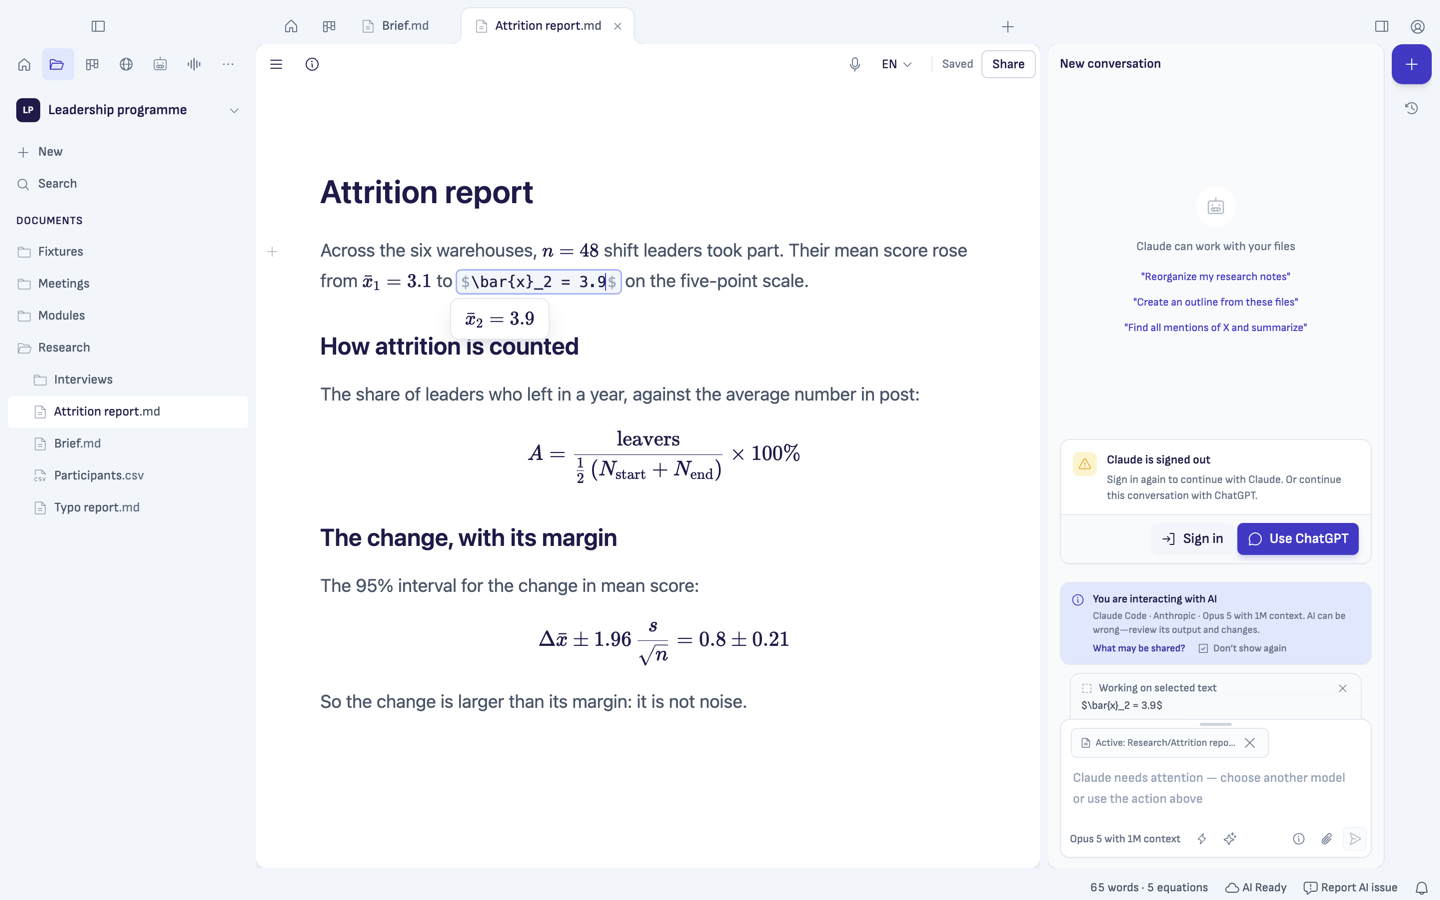
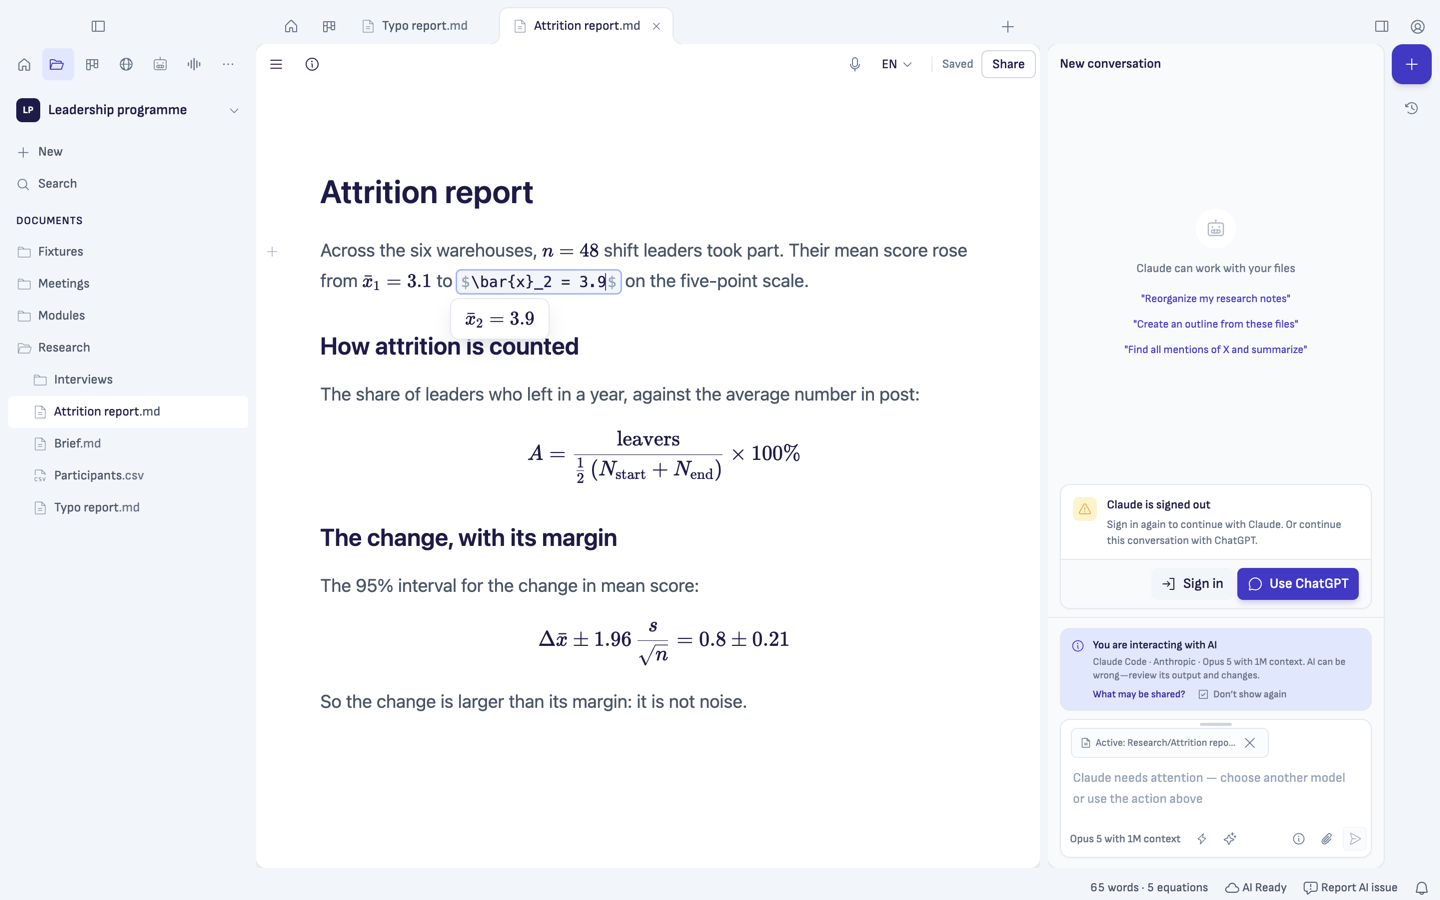
docs(equations): re-taken screenshots after the experience 38 check (Sprint 138)
02, 03, 07 and 08 without the selection chip when an equation is opened;
04 with the inline typo moving to the next line whole; 05 cropped to the
unchanged block and tooltip; new 14, a Shift-arrow selection whose chip
carries the source. The QA notes and the technical plan's as-built table
say what changed.

diff --git a/docs/development/releases/v2.1.0/sprint-138-equations/qa-evidence/qa-evidence.md b/docs/development/releases/v2.1.0/sprint-138-equations/qa-evidence/qa-evidence.md
@@ -4,13 +4,15 @@ Walked on 26 October 2026 on a dev instance of the sprint branch on the Mac (App
 
 ## Screenshots
 
+02, 03, 04, 05, 07 and 08 were re-taken after the Experience lead's check of experience 38 (the selection chip and the inline typo's wrapping); 14 is new.
+
 | File | What it shows | Experience 38 frame |
 |---|---|---|
 | [01-typeset-light.png](01-typeset-light.png) | The report typeset: inline equations at the text's size, two display equations centred; the status bar's "65 words · 5 equations" | 1 |
-| [02-inline-open-light.png](02-inline-open-light.png) | An inline equation open: its LaTeX in place with faint delimiters, the result bubble under it; the AI's sheet shows "Working on selected text $\bar{x}_2 = 3.9$" | 2 |
+| [02-inline-open-light.png](02-inline-open-light.png) | An inline equation open: its LaTeX in place with faint delimiters, the result bubble under it. Opening it by a click puts no "Working on selected text" chip in the AI's sheet, as a click into text doesn't | 2 |
 | [03-block-open-light.png](03-block-open-light.png) | A block open: "Equation · LaTeX", "Esc to finish", the field, the result under it changing as typed | 3 |
-| [04-typos-light.png](04-typos-light.png) | A block typo (`\fracc`) and two inline typos, each its source with the amber mark; the good equation above typesets | 4 |
-| [05-typo-tooltip.png](05-typo-tooltip.png) | The mark's tooltip: "Ritemark can't typeset this: `\fracc` isn't a command it knows." | 4 |
+| [04-typos-light.png](04-typos-light.png) | A block typo (`\fracc`) and two inline typos, each its source with the amber mark; the good equation above typesets. An inline typo and its mark are one unit on the line: `\fracc{a}{b}` moves to the next line whole, rather than breaking after `{a}` | 4 |
+| [05-typo-tooltip.png](05-typo-tooltip.png) | The mark's tooltip: "Ritemark can't typeset this: `\fracc` isn't a command it knows." (cropped from the first walk; the block and its tooltip are unchanged) | 4 |
 | [06-new-block-empty.png](06-new-block-empty.png) | A new equation from the `/` menu: the placeholder "For example \frac{a}{b}" and "The equation shows here as you type." The paragraph split above it comes from the scripted test's click landing mid-sentence before it typed a new paragraph, not from the equation | 5 |
 | [07-inline-open-dark.png](07-inline-open-dark.png) | Frame 2 in Dark | 2 |
 | [08-block-open-dark.png](08-block-open-dark.png) | Frame 3 in Dark | 3 |
@@ -19,6 +21,7 @@ Walked on 26 October 2026 on a dev instance of the sprint branch on the Mac (App
 | [11-word-mac.png](11-word-mac.png) | The report's Word copy in Word for Mac (saved as PDF by Word): native equations, inline and display. A lone equation in a table cell is centred by Word | — |
 | [12-word-mac-typos.png](12-word-mac-typos.png) | The typo report's Word copy: the good equation native, the typos as their source in the code font | — |
 | [13-word-mac-wide-equation.png](13-word-mac-wide-equation.png) | A sum wider than the page: Word breaks the equation over two lines; bold, italic and code in a paragraph, a list and a table | — |
+| [14-selection-chip.png](14-selection-chip.png) | A Shift-arrow selection across an equation: the chip reads "from $\bar{x}_1 = 3.1$ to", the source with its delimiters (R7). Inside the selection, the browser's highlight paints over part of the typeset equation | — |
 
 The Word audit's evidence (40 formulas, the wrapper against the converter alone) is in [../research/evidence/](../research/evidence/).
 
@@ -41,9 +44,9 @@ The Word audit's evidence (40 formulas, the wrapper against the converter alone)
 | S20–S23 editing in place, emptying, the cursor passing | pass | dev instance (02, 03, 07, 08) |
 | S24 typing `$…$`; S25 `$$` and Enter, `/` menu, block menu | pass | dev instance (06) |
 | S26 an unknown command | pass | dev instance (04, 05) |
-| S27 the AI sees the source | at the source: the AI's sheet carries the LaTeX with delimiters (02); not traced through Claude, ChatGPT and OpenCode, because the test profile has no sign-in | dev instance |
+| S27 the AI sees the source | at the source: a dragged or Shift-arrow selection carries the LaTeX with delimiters (14); opening an equation by a click or Enter sends no selection (02, 03); not traced through Claude, ChatGPT and OpenCode, because the test profile has no sign-in | dev instance; `mathRoundTrip.test.ts` |
 | S28 a comment on an equation | not run | — |
-| S29 Copy as Markdown | pass: the clipboard equals the file (bar its final newline), `$…$` included | dev instance |
+| S29 Copy as Markdown | pass: the clipboard equals the file (bar its final newline), `$…$` included; with an equation open, Copy as Markdown now takes the whole document, as with a cursor in text (the same rule in `getSelectionHTML`; not clicked through) | dev instance |
 | S30 paste from ChatGPT's and Claude's pages; S31 plain text with math | pass with synthetic paste events carrying KaTeX's HTML, MathML with a TeX annotation, and plain `$…$`; not pasted from the live sites | dev instance |
 | S32 the report as PDF; S33 a wide equation; S34 bold, italic and code; S35 a typo at export | pass on the Mac; the message reads "3 equations couldn't be typeset and show as their source." | dev instance (09, 10) |
 | S36 the report as Word | pass in Word for Mac; Word for Windows not run | (11–13) |

diff --git a/docs/development/releases/v2.1.0/sprint-138-equations/technical-plan.md b/docs/development/releases/v2.1.0/sprint-138-equations/technical-plan.md
@@ -253,3 +253,5 @@ Narrow choices made during the build, each within a requirement; the PR lists th
 | An icon in `ui/Icon.tsx` | Phosphor's `Function` (ƒ) as `'function'` | the menus' icons are Phosphor's; ƒ is its formula mark |
 | Picture height from KaTeX's box | from the parts' struts (the TeX height and depth); across, from the box and its parts | KaTeX's box is a line box taller than the formula; it opened every PDF line holding an equation by about 2 pt (A3) |
 | `.katex-display` spacing from KaTeX | the block's margins outside its box (`display: flow-root`), KaTeX's margin zero inside | the open block's focus ring otherwise stopped short of the equation |
+| (the Experience lead's check) an equation's node selection counts as selected text | `isEquationNodeSelection` (`mathNodes.ts`): an equation opened by a click, an arrow or Enter is the cursor's place, so no "Working on selected text" chip, no formatting toolbar, and Copy as Markdown takes the whole document; a drag or Shift-arrow selection still carries the source | a click into text sends nothing, so a click into an equation shouldn't either |
+| (the Experience lead's check) an inline typo wraps like text | the typo's source and its mark are one inline block (`math.css`, `.rm-math-inline.is-error`); only a source longer than a whole line wraps inside | `\fracc{a}{b}` broke after `{a}`, away from its mark |
